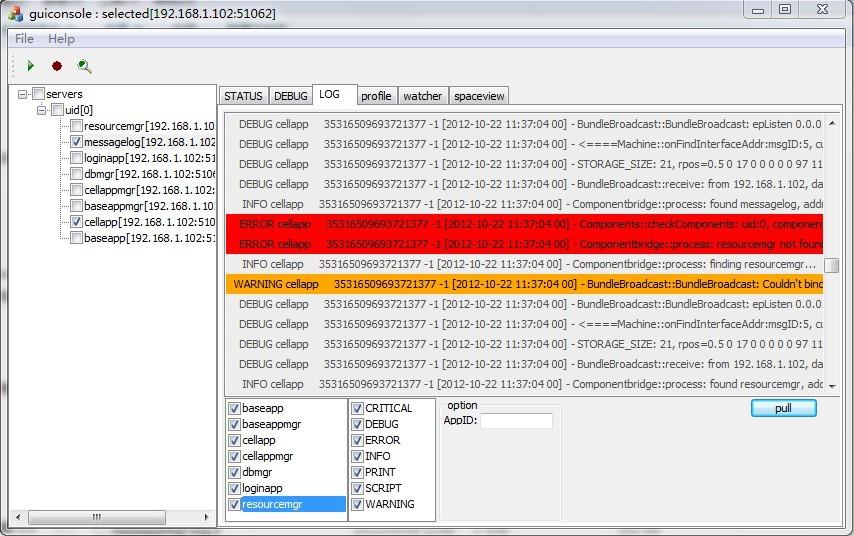
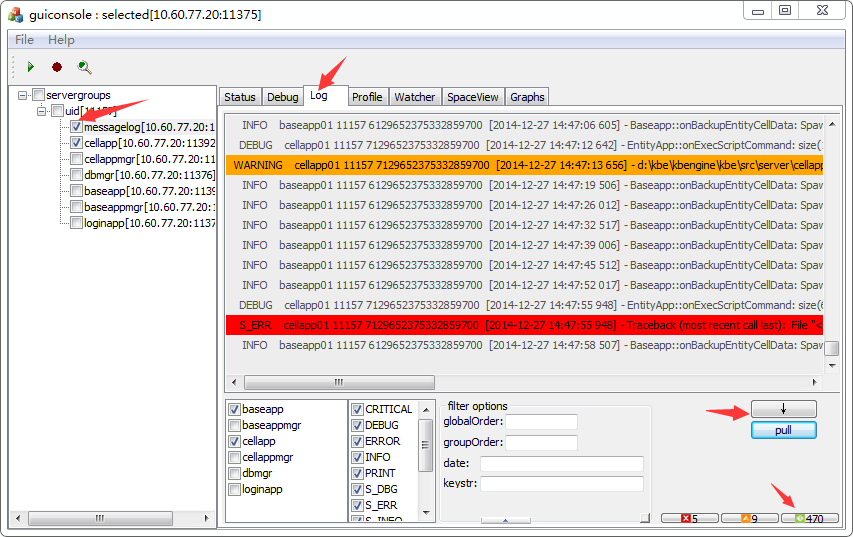
up

diff --git a/cn/docs/documentations/getlogs.md b/cn/docs/documentations/getlogs.md
@@ -11,9 +11,10 @@ docsitem: documentation-getlogs
 ###有二种办法查看服务端运行日志:
 
 1: 使用可视化的控制台工具[GUIConsole], 必须开启[messagelog]服务。
+<img class="screenshots-img" src="{{ site.baseurl }}/assets/img/screenshots/guiconsole_log.jpg">
 
 2: 查看log文件([KBE_BIN_PATH]/[logs]/xxx.log)。
-
+<img class="screenshots-img" src="{{ site.baseurl }}/assets/img/screenshots/windows_getlogs.png">
 
 -----------------------------------------------------------------------------------------------
 
@@ -28,7 +29,7 @@ docsitem: documentation-getlogs
 	S_INFO		: 脚本层常规日志
 
 
-<img class="screenshots-img" src="{{ site.baseurl }}/assets/img/screenshots/guiconsole_log.jpg">
+
 
 
 

diff --git a/docs/documentations/getlogs.md b/docs/documentations/getlogs.md
@@ -11,9 +11,10 @@ Get the runtime logs
 ###There are two ways to view the server running log: 
 
 1. Use visualization console tool [GUIConsole], must be open [messagelog] Service.
+<img class="screenshots-img" src="{{ site.baseurl }}/assets/img/screenshots/guiconsole_log.jpg">
 
 2. View log files([KBE_BIN_PATH]/[logs]/xxx.log). 
-
+<img class="screenshots-img" src="{{ site.baseurl }}/assets/img/screenshots/windows_getlogs.png">
 
 -----------------------------------------------------------------------------------------------
 
@@ -28,7 +29,7 @@ Get the runtime logs
 	S_INFO		: Script-layer general log 
 
 
-<img class="screenshots-img" src="{{ site.baseurl }}/assets/img/screenshots/guiconsole_log.jpg">
+
 
 
 
